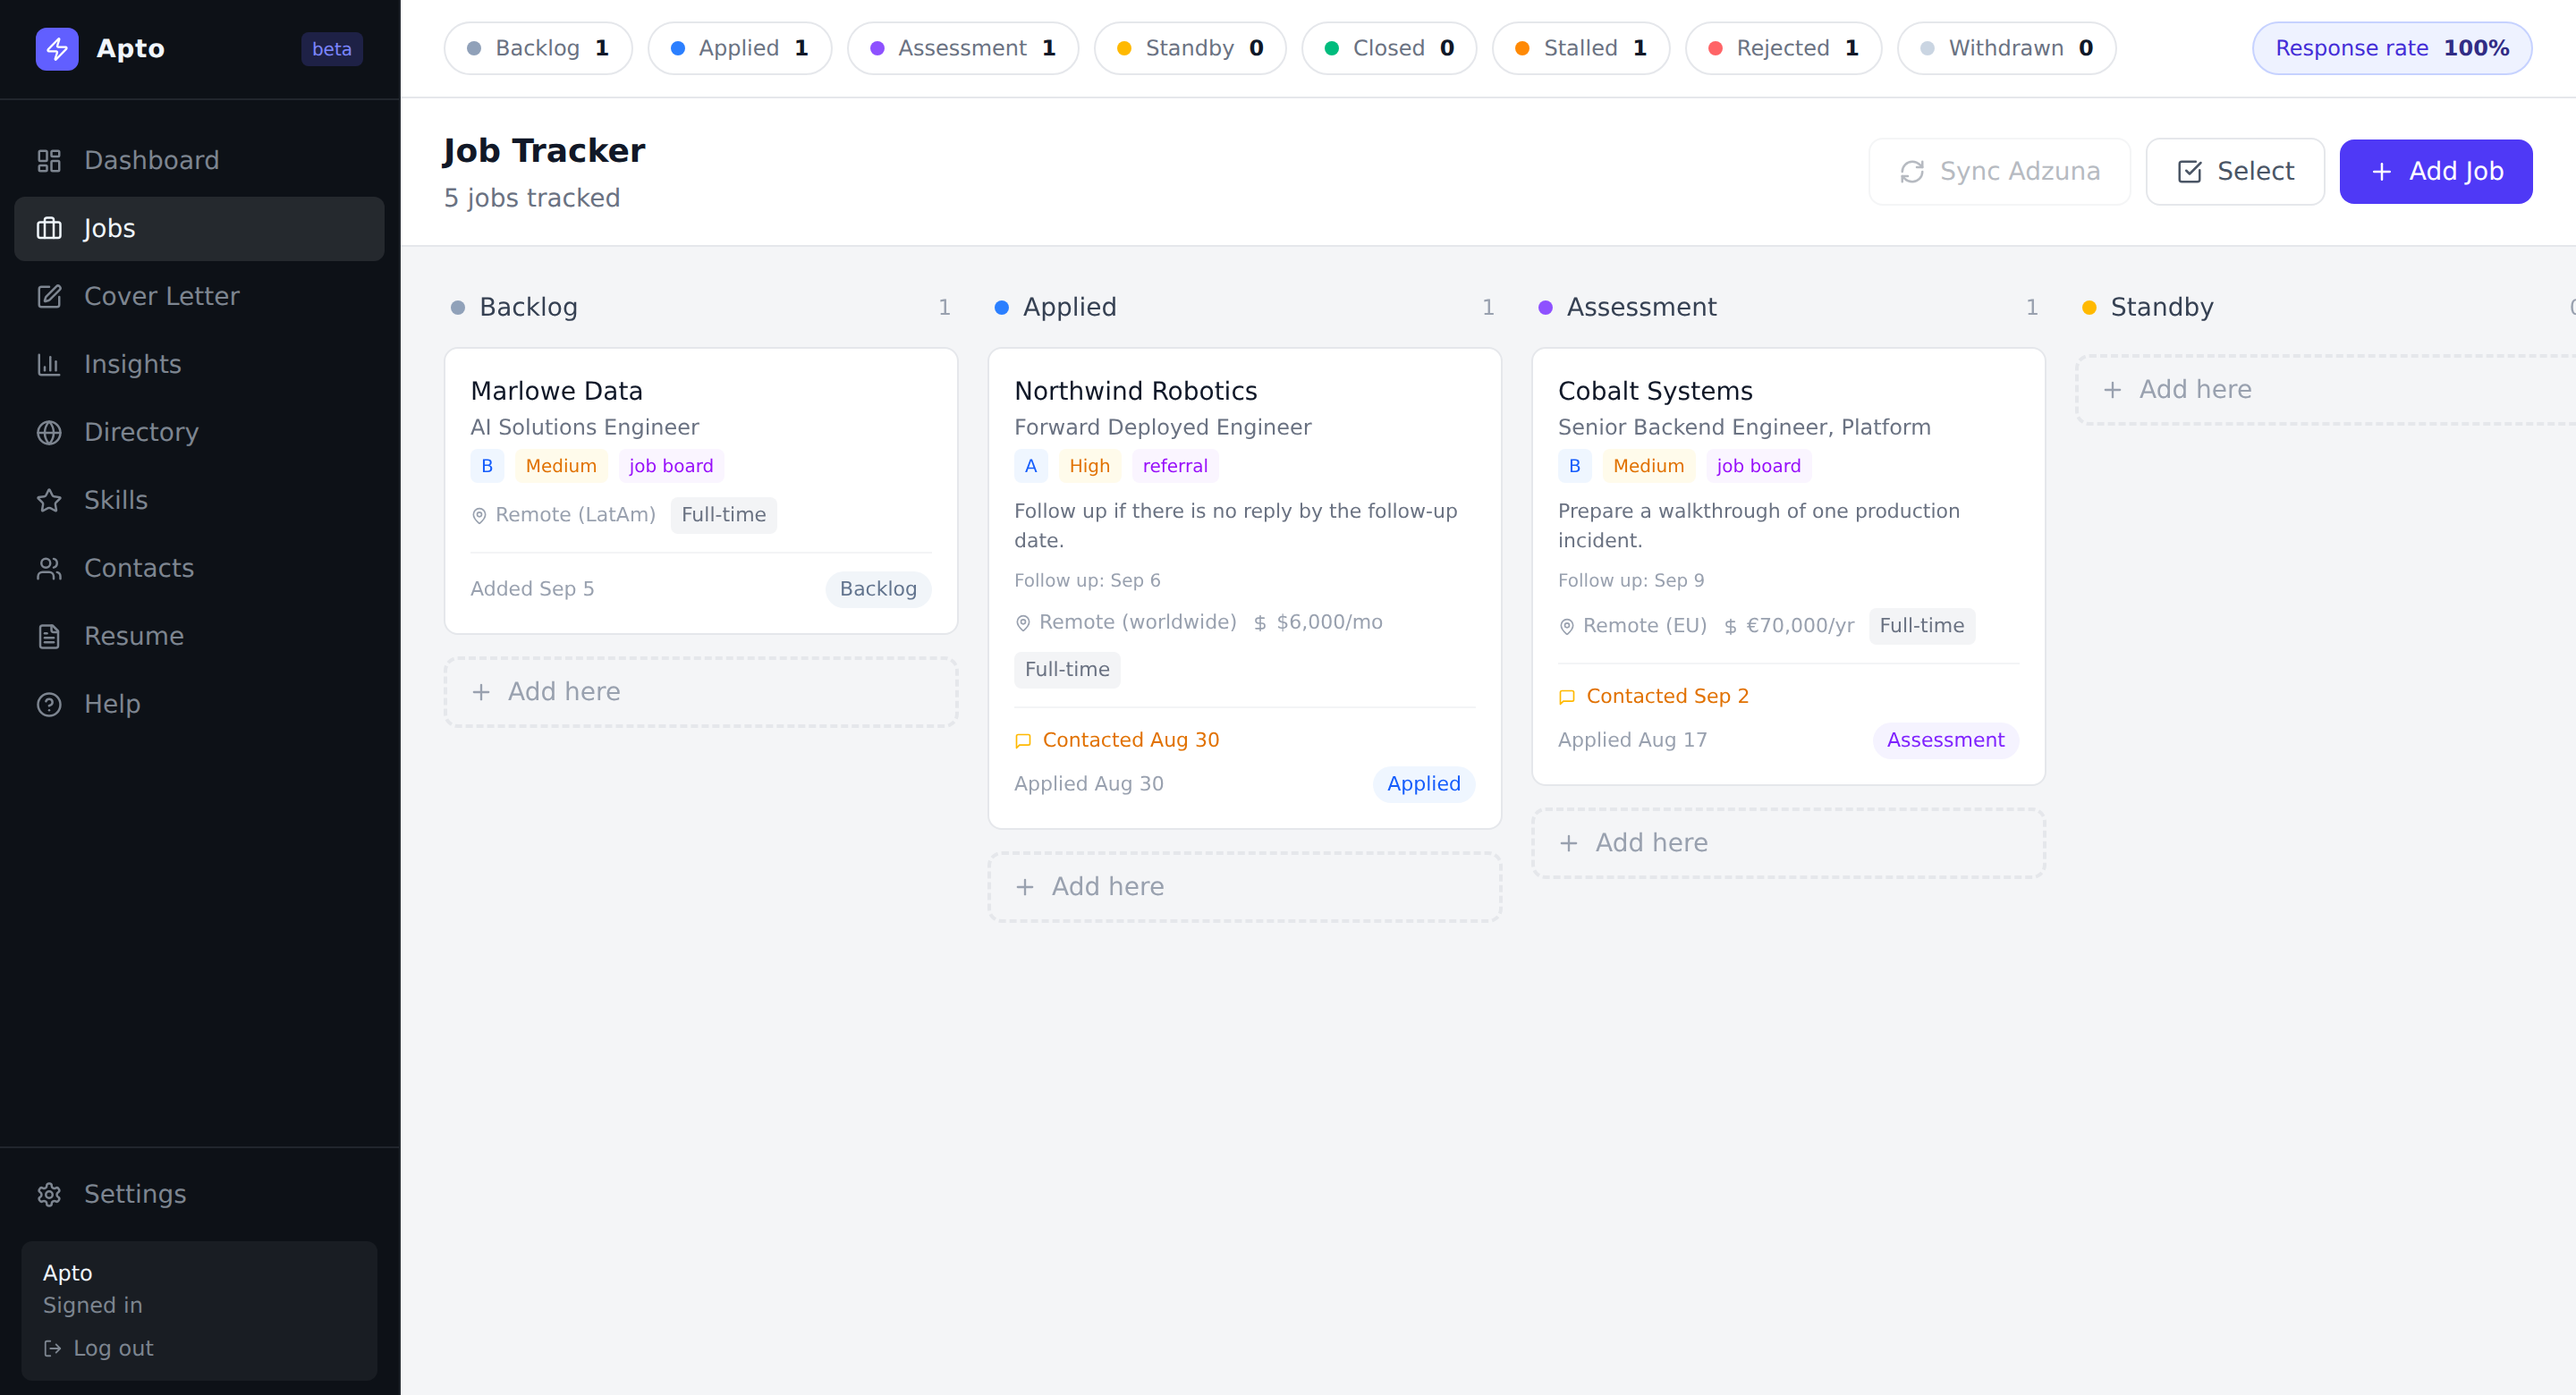
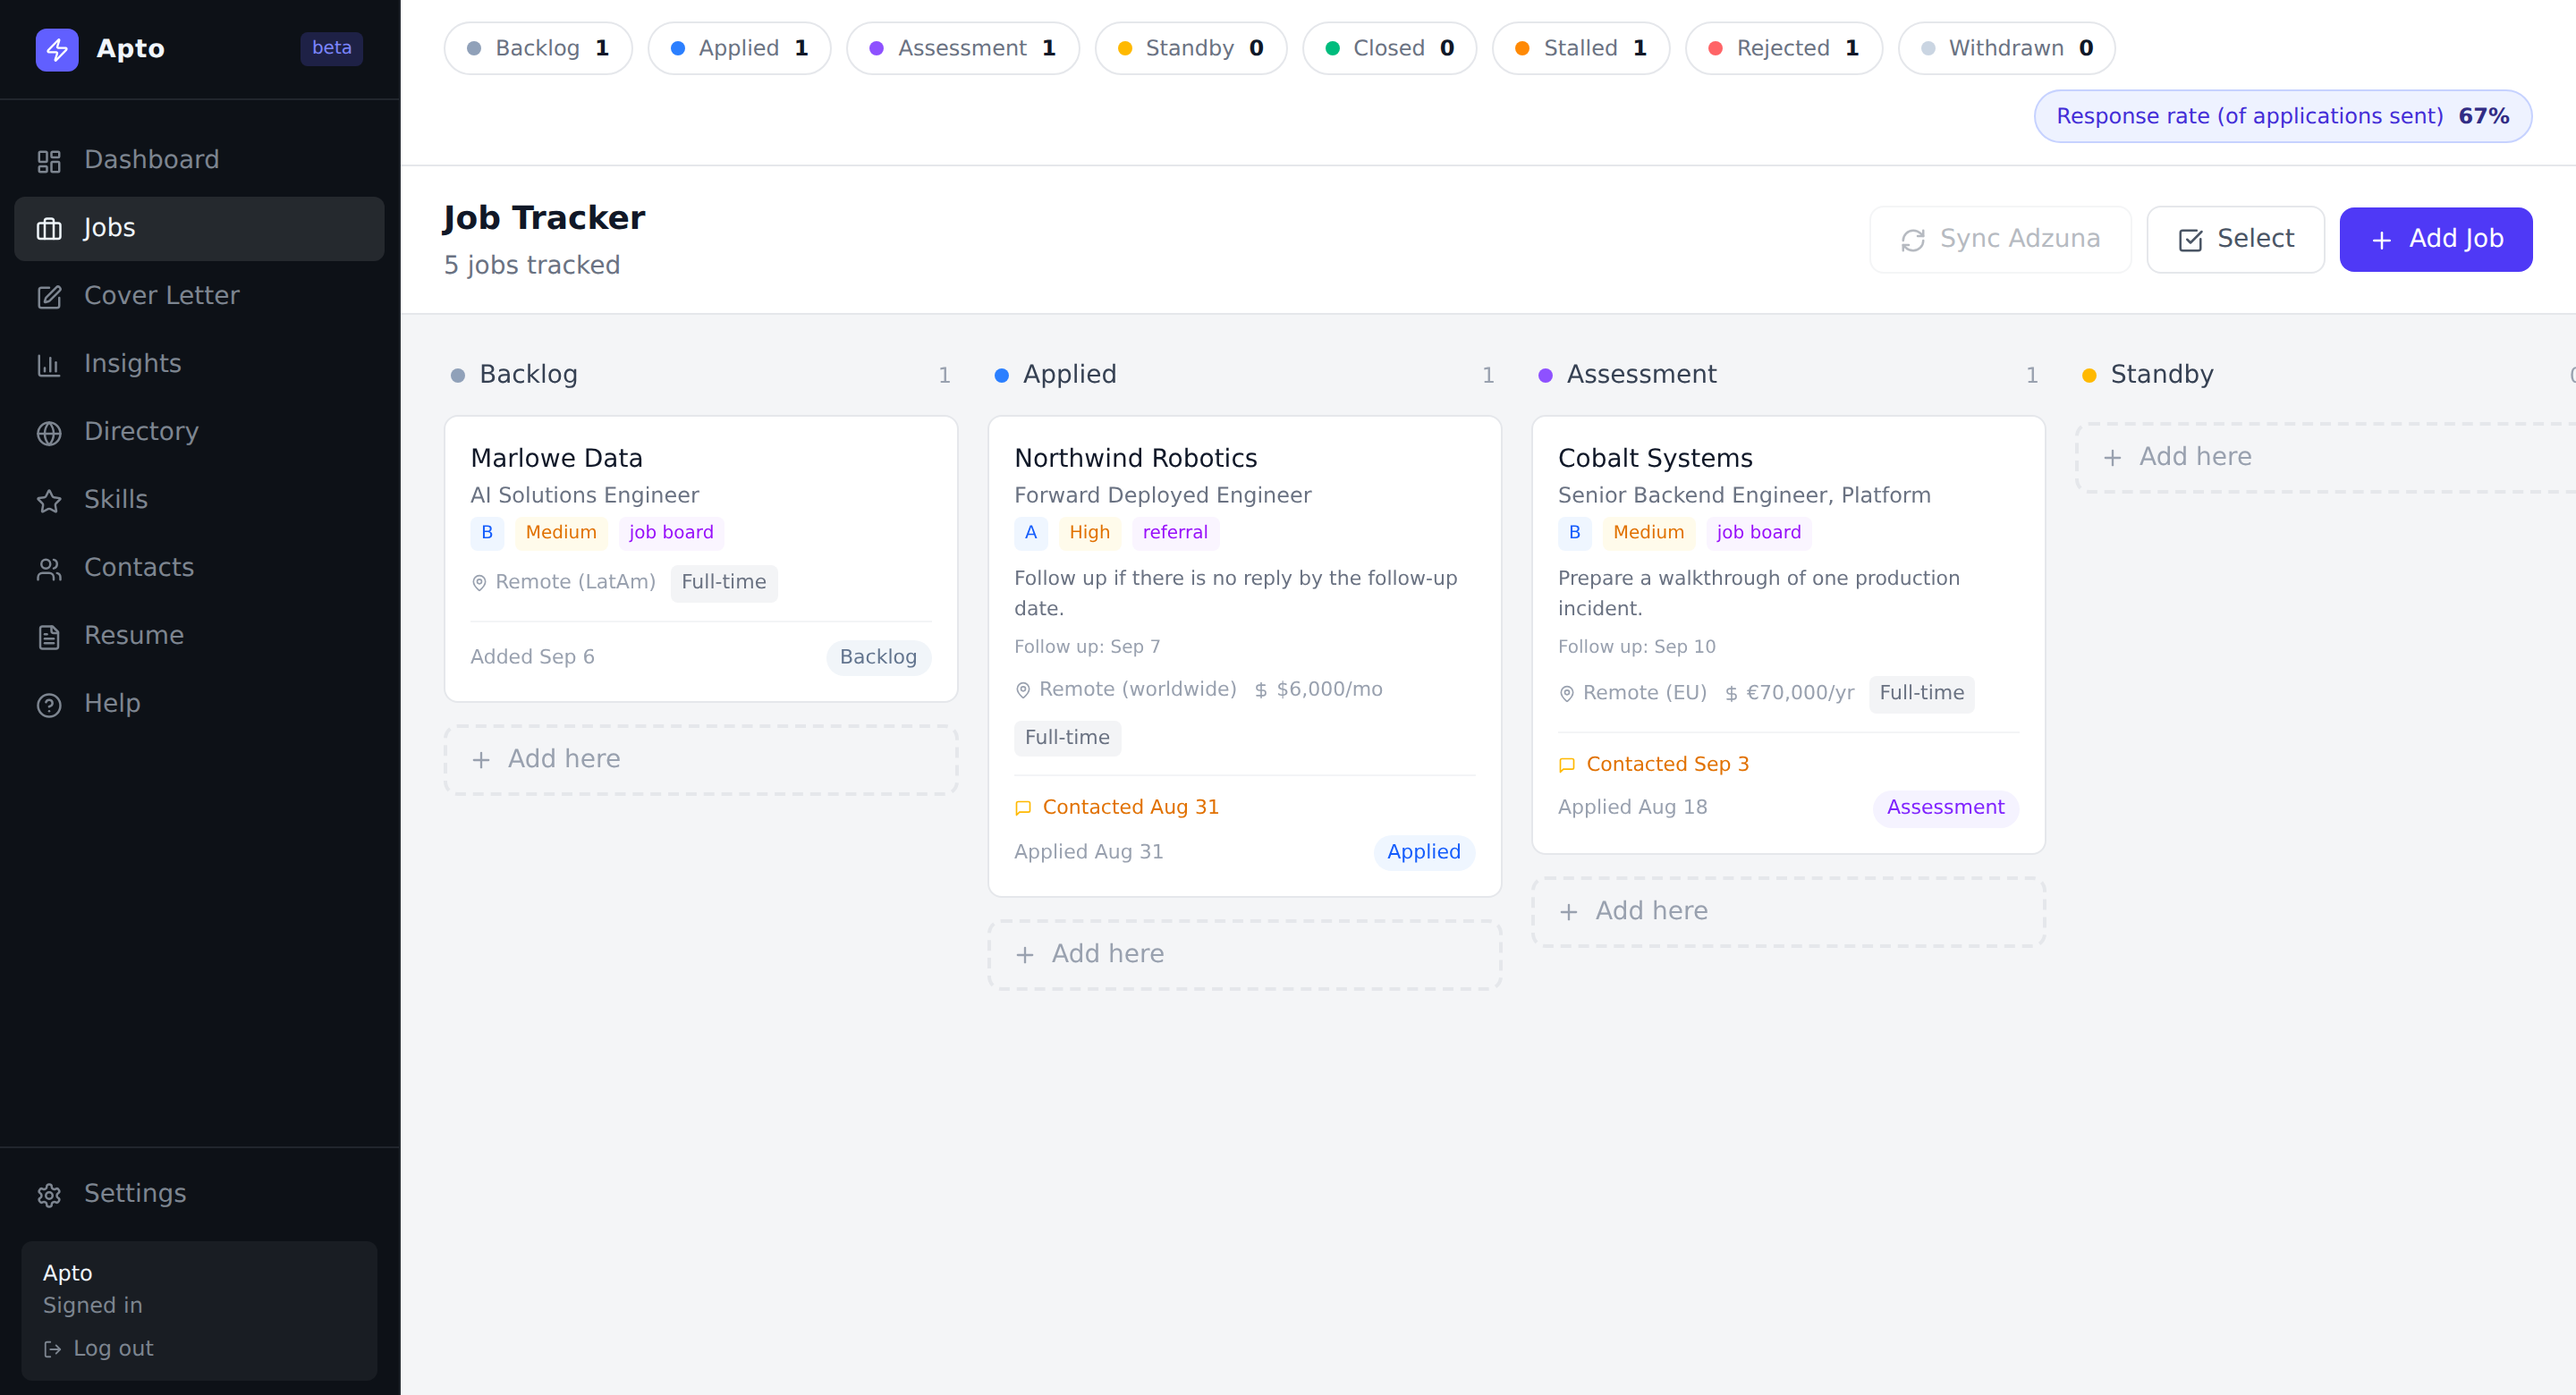
Fix workspace sync auth, lint warnings and the db:reset split
The documented workspace_sync_key Bearer token was bounced to /login: proxy.ts
only honoured APTO_API_KEY or a session cookie. Exempt the one route and let it
check its own credential, mirroring the existing /api/mcp exemption. Verified
over HTTP against a dev server: no header 401, wrong key 401, correct key 200,
and /api/jobs plus /jobs still redirect to /login.

Also: both ESLint warnings cleared, db:reset split into db:reset (empty) and
db:reset:demo (empty plus seed), README's db:reset paragraph rewritten, and the
appliedAt exclusivity claim narrowed to the agent surface rather than the REST
API or the dashboard. Board screenshot retaken so it shows the corrected
response rate.

diff --git a/proxy.ts b/proxy.ts
@@ -29,6 +29,11 @@ export async function proxy(req: NextRequest) {
   // Allow remote MCP endpoint — checked by the route itself (supports Bearer token)
   if (pathname === "/api/mcp") return NextResponse.next();
 
+  // Workspace sync carries its own credential, the workspace_sync_key stored in
+  // AppConfig, which this layer knows nothing about. The route compares it
+  // itself and 401s on a miss, so passing through here does not open it up.
+  if (pathname === "/api/sync/workspace") return NextResponse.next();
+
   // Allow the OAuth endpoints used by the Cowork MCP connector's
   // authorization_code + PKCE flow. These gate access themselves via
   // client_id/client_secret and PKCE, and must be reachable before any

diff --git a/components/KanbanBoard.tsx b/components/KanbanBoard.tsx
@@ -213,7 +213,8 @@ export function KanbanBoard({ initialJobs }: { initialJobs: Job[] }) {
   function toggleSelect(id: string) {
     setSelectedIds(prev => {
       const next = new Set(prev);
-      next.has(id) ? next.delete(id) : next.add(id);
+      if (next.has(id)) next.delete(id);
+      else next.add(id);
       return next;
     });
   }

diff --git a/app/api/jobs/route.ts b/app/api/jobs/route.ts
@@ -83,7 +83,7 @@ export async function POST(req: Request) {
         },
         job.updates.map(serializeJobUpdate)
       );
-    } catch (_e) {
+    } catch {
       // read-only filesystem in prod, not fatal
     }
     return NextResponse.json(serializeJob(job), { status: 201 });

diff --git a/README.md b/README.md
@@ -37,7 +37,7 @@ So the primary interface is a set of typed tools. A Claude session can open a ro
 **What that buys you**
 
 - **Continuity.** Session two knows what session one did, because it went into Postgres and not into a context window.
-- **Constraints that hold.** Importing is not applying. Moving a job to `APPLIED` is the job of one tool, `apto_record_application`, and calling it twice will not overwrite the date you already have or quietly reopen a rejection.
+- **Constraints that hold.** Importing is not applying. Across the agent surface, moving a tracked job to `APPLIED` is the job of one tool, `apto_record_application`: `apto_update_job` and `apto_close_job` both refuse that status outright, and `apto_add_job` accepts it only when you are backfilling a job you applied to before you started tracking it. Calling it twice will not overwrite the date you already have or quietly reopen a rejection. The REST API and the dashboard are not fenced this way, so the guarantee covers your agent, not your own clicking.
 - **Deduplication at the boundary.** Candidates merge on URL where there is one, and fall back to title and company only for jobs you have not applied to yet, so re-running a source rotation does not produce three copies of a posting or bulldoze a live application.
 - **An audit trail.** Applications, notes, closures and import merges each write a timestamped row rather than a paragraph in a chat log. Edits made through the REST API and the dashboard do not, so the trail is complete for agent activity and partial for your own clicking.
 
@@ -73,7 +73,10 @@ npm run db:seed               # loads the fictional demo pipeline
 npm run dev                   # http://localhost:3000
 ```
 
-You should land on a Kanban board with a demo pipeline in it. The seed data is invented. `npm run db:reset` wipes the database and seeds the same demo pipeline again, so use it to get back to a known state, not to get to an empty one.
+You should land on a Kanban board with a demo pipeline in it. The seed data is invented.
+Two ways back to a known state: `npm run db:reset` empties the database and leaves it empty,
+`npm run db:reset:demo` empties it and seeds the same demo pipeline again. Both are
+destructive and take no confirmation.
 
 The local server keeps running between sessions. Manage it with `npx prisma dev ls`, `stop`, `start` and `rm`.
 
